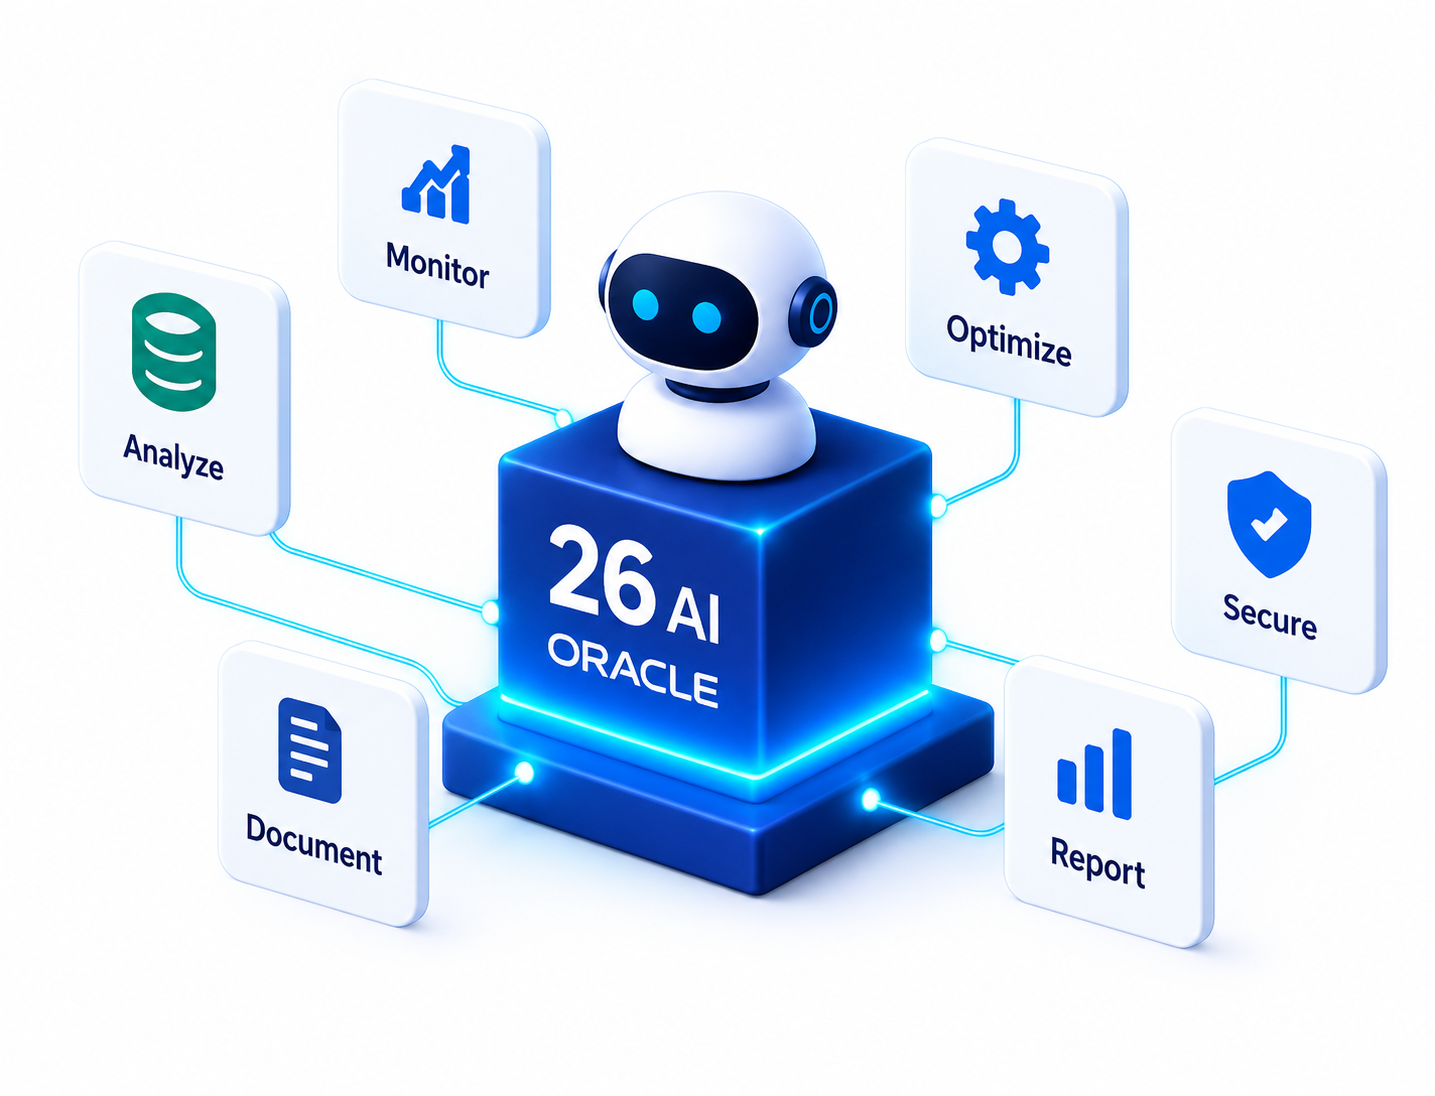
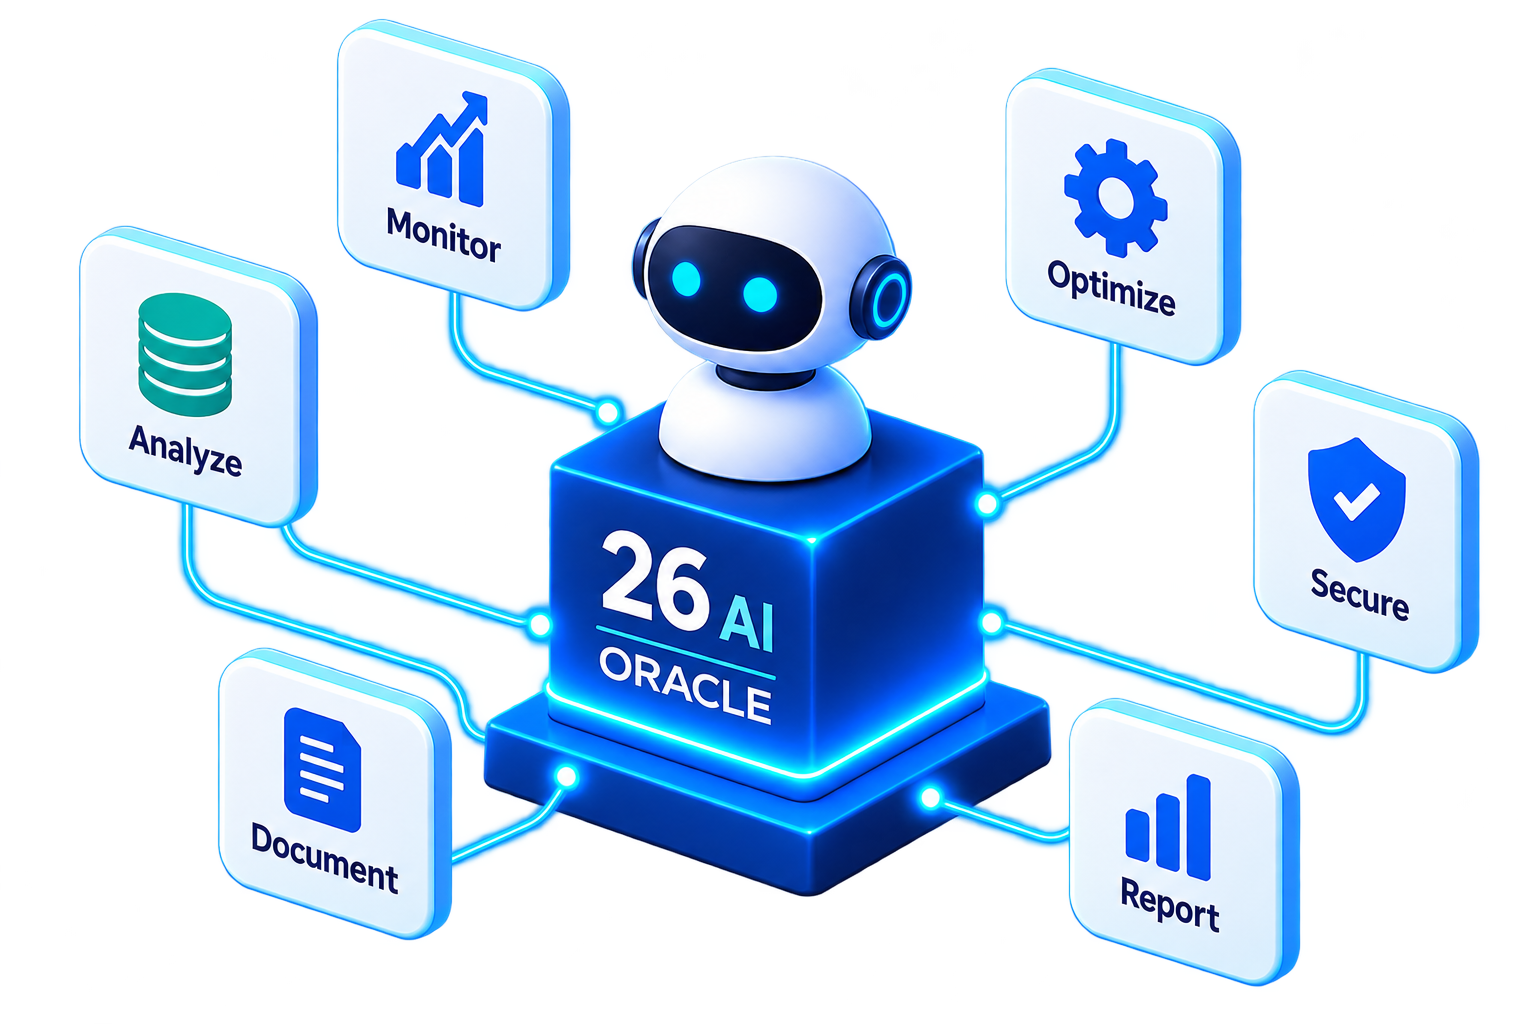
Swap hero image to dark-background visual2.png
Dark bg matches hero gradient — no border or shadow needed.

Changed region(s): [[0.0613, 0.0, 0.9812, 0.9688]]

diff --git a/components/hero/HeroSection.tsx b/components/hero/HeroSection.tsx
@@ -111,7 +111,7 @@ export function HeroSection() {
             <img
               src="/hero-visual.png"
               alt="Oracle 26 AI agentic visualization"
-              className="w-full max-w-[500px] rounded-2xl shadow-2xl shadow-black/50 ring-1 ring-white/10"
+              className="w-full max-w-[520px]"
               draggable={false}
             />
           </div>
